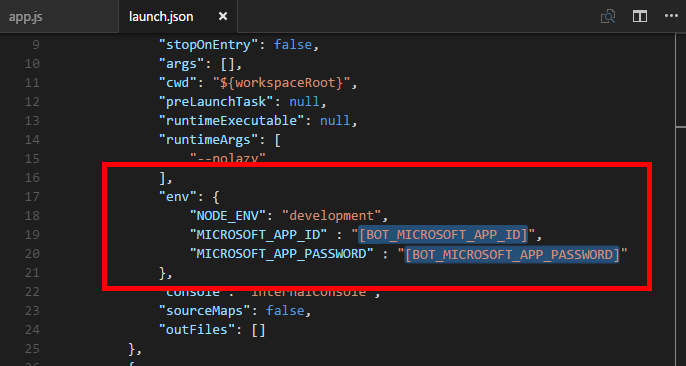
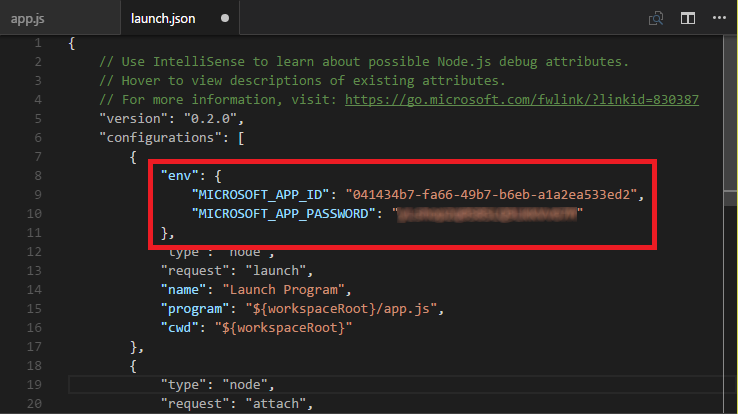
More revisions to bots lab

diff --git a/Content/Bots (Draft)/Microsoft Bot Framework HOL.md b/Content/Bots (Draft)/Microsoft Bot Framework HOL.md
@@ -6,9 +6,9 @@
 <a name="Overview"></a>
 ## Overview ##
 
-Whether you realize it or not, bots are everywhere. In fact, you probably interact with bots every day without realizing it. Bots, especially chat and messenger bots, are changing the way we interact with businesses, communities, and even each other. Thanks to light-speed advances and availability of artificial intelligence services, bots are not only becoming more advanced and personalized, but also more accessible to developers. 
+Bots are everywhere. You probably interact with them every day without realizing it. Bots, especially chat and messenger bots, are changing the way we interact with businesses, communities, and even each other. Thanks to light-speed advances in artificial intelligence (AI)  and the easy availability of AI services, bots are not only becoming more advanced and personalized, but also more accessible to developers. 
 
-Regardless of the target language or platform, developers building bots face the same challenges: Bots require basic input and output. Bots need language and dialog logic. Bots need to be responsive, scalable, and extensible, and they need to interact with users in a conversational manner and in the language the user chooses. The Microsoft Bot Framework provides the foundation developers need to build, connect, manage, and publish intelligent bots that interact naturally with users using a range of third-party and custom services. 
+Regardless of the target language or platform, developers building bots face the same challenges. Bots require basic input and output. Bots need language and dialog logic. Bots need to be responsive, scalable, and extensible, and they need to interact with users in a conversational manner and in the language the user chooses. The Microsoft Bot Framework provides the foundation developers need to build, connect, manage, and publish intelligent bots that interact naturally with users using a range of third-party and custom services. 
 
 In this lab, you will create a bot for use with the Microsoft Bot Framework. The bot will use a Skype channel to return random, interesting facts to a user.
 
@@ -53,17 +53,17 @@ Estimated time to complete this lab: **60** minutes.
 <a name="Exercise1"></a>
 ## Exercise 1: Create an Azure Web App ##
 
-The first step in creating a bot is to provide a location for the bot logic to be hosted. Azure Web Apps are perfect for hosting bot applications. In this exercise, you will create and configure an Azure Web App.
+The first step in creating a bot is to provide a location for the bot to be hosted. Azure Web Apps are perfect for hosting bot applications. In this exercise, you will create and configure an Azure Web App.
 
 1. Open the [Azure Portal](https://portal.azure.com) in your browser. If asked to login, do so with your Microsoft Account.
 
 1. Click **+ New**, followed by **Web + Mobile** and then **Web App**.
 
-    ![Creating a new Web App](Images/portal-create-new-web-app.png)
+    ![Creating a new Azure Web App](Images/portal-create-new-web-app.png)
 
-    _Creating a new Web App_
+    _Creating a new Azure Web App_
 
-1. Enter a name such as "factbot" (without quotation marks) into the **App name** box. *This name must be unique within Azure, so make sure a green check mark appears next to it.*  Make sure **Create New** is selected under **Resource Group** and enter the resource-group name "BotsResourceGroup" (again, without quotation marks). Then click **Create**.
+1. Enter a name such as "factbot" (without quotation marks) into the **App name** box. *This name must be unique within Azure, so make sure a green check mark appears next to it.*  Make sure **Create new** is selected under **Resource Group** and enter the resource-group name "BotsResourceGroup" (again, without quotation marks). Then click **Create**.
 
     ![Configuring a new Web App](Images/portal-configure-new-web-app.png)
 
@@ -83,7 +83,7 @@ The first step in creating a bot is to provide a location for the bot logic to b
 
     _Successful deployment_
 
-Your Azure Web App is now provisioned and ready to create your bot registration. The URL of the Web App is http://*webappname*.azurewebsites.net, where *webappname* is the name you entered for the Web App in Step 3 (for example, http://factbot.azurewebsites.net).
+Your Azure Web App is now provisioned and ready to create your bot registration. The URL of the Web App is http://*appname*.azurewebsites.net, where *appname* is the name you entered for the Web App in Step 3 (for example, http://factbot.azurewebsites.net).
 
 <a name="Exercise2"></a>
 ## Exercise 2: Create and configure a bot registration ##
@@ -104,10 +104,10 @@ The next step in building a bot with the Microsoft Bot Framework is creating and
 
     _Registering a bot profile_
 
-1. Scroll down to the "Configuration" section and in the **Messaging endpoint** field, enter the value below, replacing *webappname* with the Azure Web App name you entered in Exercise 1, Step 3. Then click the **Create Microsoft App ID and password** button.
+1. Scroll down to the "Configuration" section and in the **Messaging endpoint** field, enter the value below, replacing *appname* with the Azure Web App name you entered in Exercise 1, Step 3. Then click the **Create Microsoft App ID and password** button.
 
 	<pre>
-	https://<i>webappname</i>.azurewebsites.net/api/messsages
+	https://<i>appname</i>.azurewebsites.net/api/messages
 	</pre>
 
 	> Bot messaging endpoints can only communicate over secure protocols. Observe that the messaging endpoint URL uses HTTPS rather than HTTP.
@@ -213,48 +213,23 @@ Now that you have created and configured your bot registration, it's time to sta
 
     _Creating a new launch file_	
 	
-1.	Locate the "env" node in **launch.json**:		
+1.	Add the "env" section highlighted below to the "configuration" section of **launch.json**, and include the app ID and app password generated for your bot in Exercise 2.	
 	
-    ![The launch file env node](Images/vs-locating-env-node.png)
+	![Adding bot registration values](Images/vs-replacing-bot-config-values.png)
 
-    _The launch file env node_	
+    _Adding bot registration values_	
 
-1.	Enter the following code directly below the “NODE_ENV”:
-
-	```
-     "MICROSOFT_APP_ID" : "[BOT_MICROSOFT_APP_ID]",
-     "MICROSOFT_APP_PASSWORD" : "[BOT_MICROSOFT_APP_PASSWORD]"
-	```	
+1.	Save your changes to **launch.json**. Then close the file.
 	
-	![Replacing bot registration values](Images/vs-replacing-bot-config-values.png)
-
-    _Replacing bot registration values_	
-
-1.	Replace the values [BOT_MICROSOFT_APP_ID] with the Microsoft App Id generated in Exercise 2, and then replace [BOT_MICROSOFT_APP_PASSWORD] with the password you copied to a text file, also in Exercise 2.	
- 
-	> If you need to view the Microsoft App ID created in Exercise 2, open up a browser and navigate to the **Microsoft Bot Framework Portal**. When the portal opens, click **My Bots** and then **Factbot**, to review your bot configuration information, including the Microsoft App ID created in Exercise 2.
-
-1.	Close the new launch.json file by selecting **File > Close Editor** from the Visual Studio Code menu. If prompted to save changes, click **Save**.
-	
-    ![Closing the Visual Code editor window](Images/vs-file-close-editor.png)
-
-    _Closing the Visual Code editor window_	
-
-1.	In the Explorer, click the **Add folder** button to create a new folder.
+1.	Click the **Explorer** button on the left, and then click the **New Folder** button to create a new folder named "en" (without quotation marks) in the "Factbot" directory.
 	
     ![Adding a new folder](Images/vs-click-add-folder.png)
 
     _Adding a new folder_	
 
-1.	Type in "en" (without quotation marks) and hit the **enter** key on your keyboard.
-	
-    ![Creating the en language folder](Images/vs-new-en-folder-created.png)
+	> The "en" folder is not required for your bot to work correctly. However, the Bot Builder SDK will display warnings in the Integrated Terminal if a default language folder is not present.
 
-    _Creating the en language folder_	
-
-	>The en folder is **not required** for you bot to work correctly, however the Bot Builder SDK will display warnings in the Integrated Terminal if a default language folder is not available.
-
-Your bot project is now setup and configured and you’re ready to write code to demonstrate communication between a user and your bot The next step is to write code to provide simple responses to a user from your bot, and then add conversation logic to provide a more meaningful experience.
+Your bot project is now setup and configured. The next step is to write code to provide simple responses to a user from your bot, and then add conversation logic to provide a more meaningful experience.
 
 <a name="Exercise4"></a>
 ## Exercise 4: Add conversation logic to your bot ##
